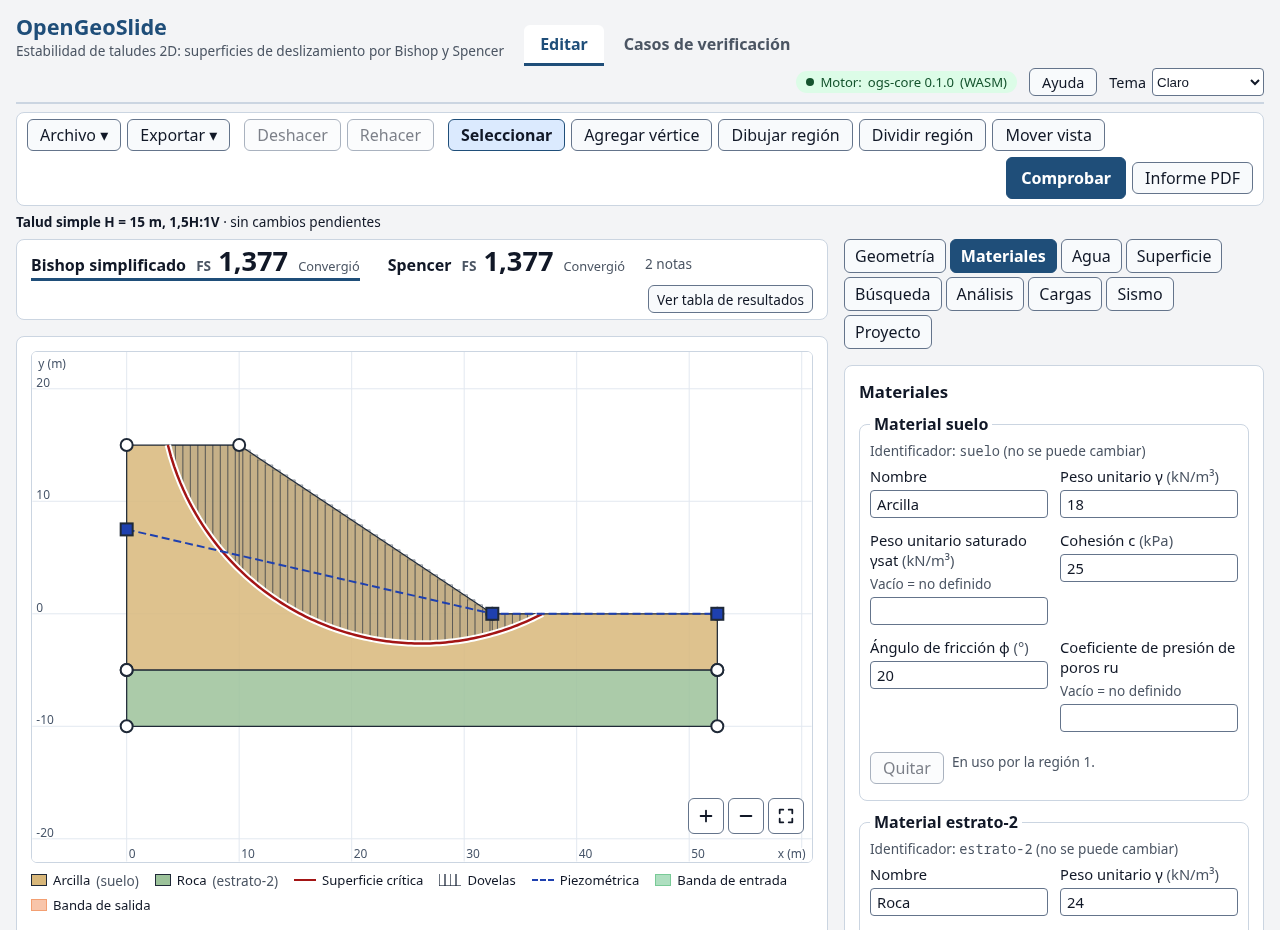
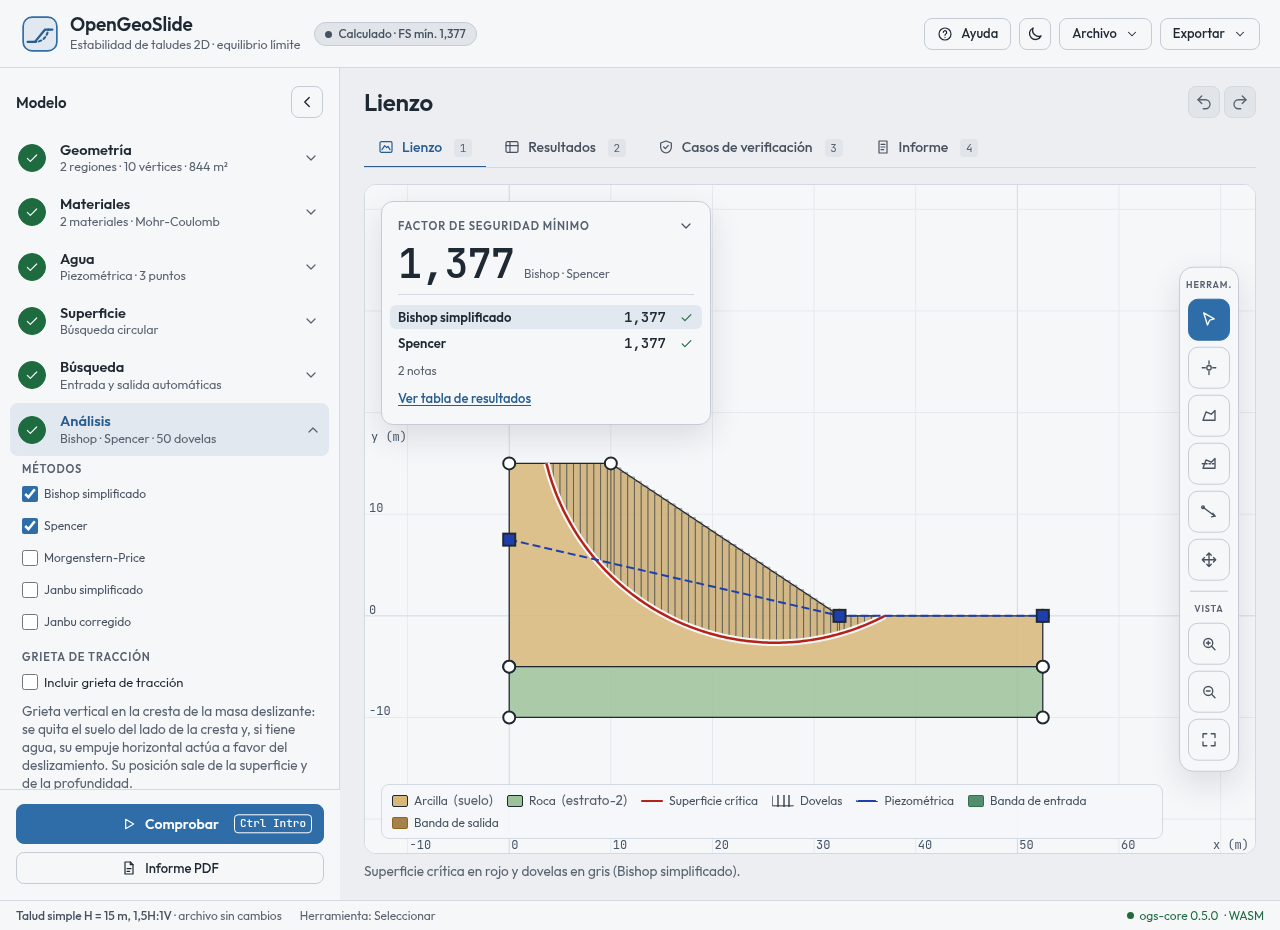
UA5-D: capturas del README con el armazón A

diff --git a/README.md b/README.md
@@ -12,7 +12,7 @@
 <p align="center">
   <picture>
     <source media="(prefers-color-scheme: dark)" srcset="./assets/readme/app-editor-dark.png">
-    <img src="./assets/readme/app-editor-light.png" width="100%" alt="Editor web de OpenGeoSlide con un talud de 15 m (1,5H:1V) de arcilla sobre roca, con la línea piezométrica punteada en el pie, la superficie crítica en rojo con sus dovelas, y Bishop y Spencer con FS 1,377.">
+    <img src="./assets/readme/app-editor-light.png" width="100%" alt="Editor web de OpenGeoSlide en la vista Lienzo, con un talud de 15 m (1,5H:1V) de arcilla sobre roca, la línea piezométrica punteada hasta el pie y la superficie crítica en rojo con sus dovelas. A la izquierda, los pasos del modelo con el paso Análisis abierto; en el lienzo, la paleta de herramientas y el panel de resultados, con Bishop simplificado y Spencer en FS 1,377.">
   </picture>
 </p>
 
